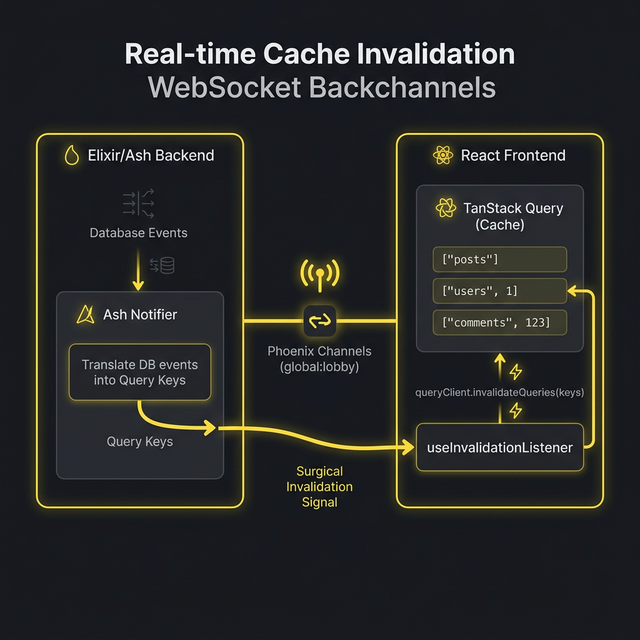
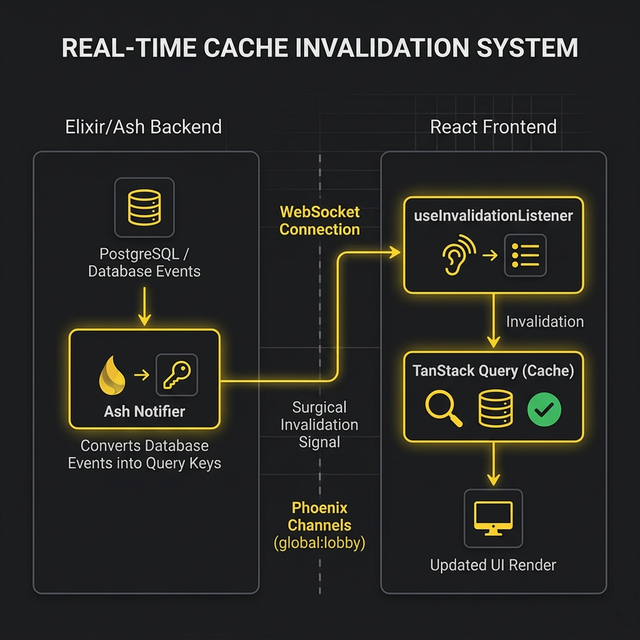
docs(portfolio): link new technical deep-dive articles

diff --git a/content/projects/lms-sertifikasi/index.md b/content/projects/lms-sertifikasi/index.md
@@ -26,15 +26,18 @@ screenshots: []
 
 ## Technical Highlights & Decisions
 
-### Real-time Learning Sync
-Phoenix Channels with multiplexed room model for efficient fan-out. Moved from per-user topics to shared rooms, reducing WebSocket CPU load by 70% during concurrent quiz sessions.
-[Deep Dive →](/projects/lms-sertifikasi/optimizing-websocket-fanout)
+### 1. Unified Learning Telemetry (xAPI)
+Built a custom, fully compliant Learning Record Store (LRS) integrated into the Elixir backend. Instead of relying on fragmented frontend logic, an Ash Notifier (`ModuleCompletionVerifier`) processes a unified stream of xAPI statements from both native tools (Articulate/Captivate) and custom adapters, guaranteeing 100% accurate progress calculation.  
+[Read the Architecture Deep Dive →](/projects/lms-sertifikasi/unified-learning-telemetry)
 
-### Granular Progress Tracking
-Vanilla TypeScript External Store paired with React 18's `useSyncExternalStore` for O(1) UI updates. Chose this over Context API to avoid full-tree re-renders in courses with 200+ items.
+### 2. Surgical Real-time Synchronization
+Completely eliminated REST polling for progress updates. Repurposed Phoenix Channels as a "Backchannel" where backend Ash Notifiers broadcast precise TanStack Query invalidation keys to the React frontend, instantly syncing learning state across multiple devices in O(1) time.  
+[Read the Implementation Deep Dive →](/projects/lms-sertifikasi/surgical-realtime-sync)
 
-### Assessment Engine
-Timed exams with snapshot-based grading and remedial cooldown logic. Snapshots ensure grading integrity even if questions are modified after submission.
+### 3. High-Performance Media Pipeline
+Engineered a secure, multi-stage media pipeline using Cloudflare Stream and TUS. Implemented a robust architecture featuring secure pre-signed uploads (TUS), automated webhook-driven transcription via Elixir workers, and authenticated HLS playback using short-lived JWTs.  
+[Read the Engineering Deep Dive →](/projects/lms-sertifikasi/media-pipeline)
 
-### xAPI Integration
-Full LRS compliance for learning analytics and session resumption. Implemented exit-only persistence strategy to reduce network noise while maintaining reliable session state via terminal browser events.
+### 4. Dynamic PDF Certificate Engine
+Replaced an unmaintainable React WYSIWYG editor with a declarative, server-rendered HEEx template approach. Leveraged Elixir's `PdfGenerator` and Chromium headless to generate pixel-perfect, dynamic certificates at scale, drastically simplifying the frontend and improving reliability.  
+[Read the System Deep Dive →](/projects/lms-sertifikasi/dynamic-pdf-engine)
